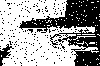
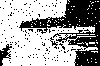
Start creating graph

diff --git a/proyecto-final/main.py b/proyecto-final/main.py
@@ -1,5 +1,8 @@
 from __future__ import division
 from noise import sp_noise
+from graph import create_graph
+import matplotlib.pyplot as plt
+import networkx as nx
 import numpy as np
 import random
 import cv2
@@ -17,7 +20,7 @@ g_files = glob.glob(data_path)
 files = g_files + G_files
 
 # Parameters for image size and noise:
-width_objective = 100
+width_objective = 10
 noise_percentage = .05
 
 # Loop over all images to resize and binarize:
@@ -43,3 +46,8 @@ for image_name in files:
     # Save noisy image
     noisy_image_name = image_name.replace(folder_name, noise_folder_name)
     cv2.imwrite(noisy_image_name, noisy_image)
+    G = create_graph(noisy_image)
+    pos = dict( (n, n) for n in G.nodes() )
+    nx.draw(G, pos, node_size = 10)
+    plt.show()
+    import pdb;pdb.set_trace()

diff --git a/proyecto-final/graph.py b/proyecto-final/graph.py
@@ -1,0 +1,7 @@
+import networkx as nx
+
+def create_graph(image):
+    height, width = image.shape
+    G = nx.grid_2d_graph(height, width)
+    G = G.to_directed()
+    return G
